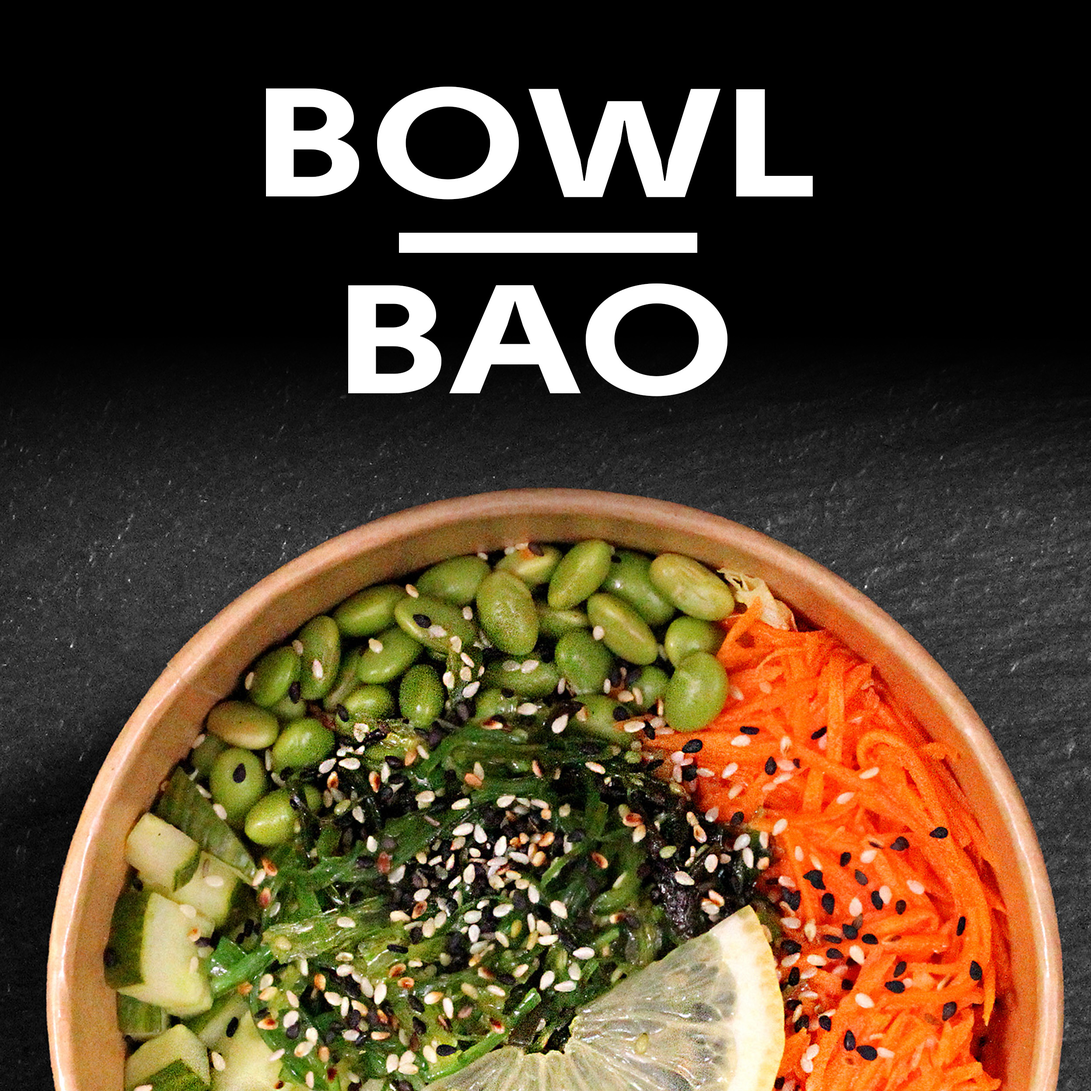
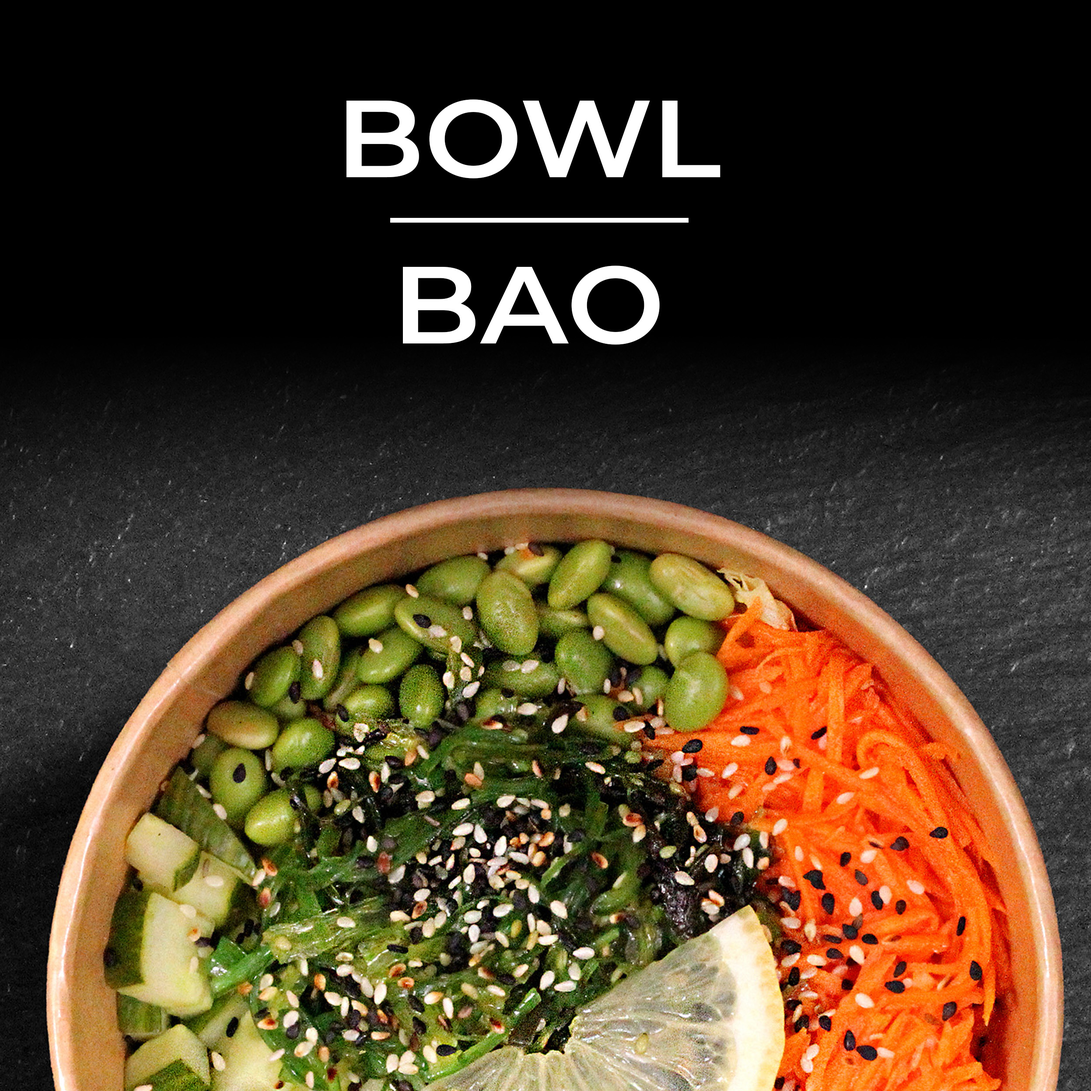
Changed Menu selector photos
+New menu selector photos
-Unused photos removed
+Font size changed for create card description
+Text style changed on create card separator

Changed region(s): [[0.2161, 0.0617, 0.741, 0.3705]]

diff --git a/sushibu-website/src/components/MenuWokSnack.js b/sushibu-website/src/components/MenuWokSnack.js
@@ -4,10 +4,10 @@ import CreateCard from "./CreateCard";
 import CreateCardSeparator from "./CreateCardSeparator";
 
 import iconVegan from "../content/Icons/Icon_Vegan.png";
-import iconHot from "../content/Icons/Icon_Hot.png";
-import iconHotVegan from "../content/Icons/Icon_HotVegan.png";
-import iconHotDefault from "../content/Icons/Icon_HotDefault.png";
-import iconVeganDefault from "../content/Icons/Icon_VeganDefault.png";
+// import iconHot from "../content/Icons/Icon_Hot.png";
+// import iconHotVegan from "../content/Icons/Icon_HotVegan.png";
+// import iconHotDefault from "../content/Icons/Icon_HotDefault.png";
+// import iconVeganDefault from "../content/Icons/Icon_VeganDefault.png";
 
 import Wok31 from "../content/WokSnack/31.ToriWok.JPG";
 import Wok32 from "../content/WokSnack/32.EbiWok.JPG";
@@ -27,7 +27,15 @@ const MenuBao = () => {
         <Grid item xs={12} md={12} l={12}>
           <CreateCardSeparator 
             name="WOK" 
-            desc={"Visi Wok pateikiami su VIENODAIS PRIEDAIS: morka, česnakas, cukinija, edamame pupelės, paprika, pievagrybiai, imbieras, citrina, svogūnų traškučiai, sezamas, sojų padažas \n Pasirinkite su Ryžiais ar Makaronais \n Pasirinkite padažą: Sweet čili, Aštrus,Teriyaki"}>
+            desc={
+              <>
+                Visi Wok pateikiami su <b>VIENODAIS PRIEDAIS</b>: morka, česnakas, cukinija, edamame pupelės, paprika, 
+                pievagrybiai, imbieras, citrina, svogūnų traškučiai, sezamas, sojų padažas.
+                <br></br><b>Pasirinkite</b>: su Ryžiais arba Makaronais. 
+                <br></br><b>Pasirinkite</b>: Sweet čili, Aštrus arba Teriyaki.
+              </>
+            }
+          >
           </CreateCardSeparator>
         </Grid>
         <Grid item xs={12} md={6} l={4}>
@@ -58,7 +66,7 @@ const MenuBao = () => {
         <Grid item xs={12} md={12} l={12}>
           <CreateCardSeparator 
             name="UŽKANDŽIAI" 
-            desc="Pasirinkite padažą: Sweet čili, Aštrus, Teriyaki, Krapų, Sojos, Majonezo"
+            desc={<><b>Pasirinkite padažą</b>: Sweet čili, Aštrus, Teriyaki, Krapų, Sojos arba Majonezo</>}
             titleVariant="h4"
           ></CreateCardSeparator>
         </Grid>

diff --git a/sushibu-website/src/components/MenuBowlBao.js b/sushibu-website/src/components/MenuBowlBao.js
@@ -4,10 +4,10 @@ import CreateCard from "./CreateCard";
 import CreateCardSeparator from "./CreateCardSeparator";
 
 import iconVegan from "../content/Icons/Icon_Vegan.png";
-import iconHot from "../content/Icons/Icon_Hot.png";
-import iconHotVegan from "../content/Icons/Icon_HotVegan.png";
-import iconHotDefault from "../content/Icons/Icon_HotDefault.png";
-import iconVeganDefault from "../content/Icons/Icon_VeganDefault.png";
+// import iconHot from "../content/Icons/Icon_Hot.png";
+// import iconHotVegan from "../content/Icons/Icon_HotVegan.png";
+// import iconHotDefault from "../content/Icons/Icon_HotDefault.png";
+// import iconVeganDefault from "../content/Icons/Icon_VeganDefault.png";
 
 import bowl_1 from "../content/BowlBao_Bowl1.jpg"
 
@@ -28,7 +28,8 @@ const MenuBowl = () => {
         <Grid item xs={12} md={12} l={12}>
           <CreateCardSeparator
             name="BOWL"
-            desc={"Visi Bowl dubenėliai ruošiami su VIENODAIS PRIEDAIS: ryžiai, agurkas, edamame pupelės, sweet čili morkos, wakame, marinuotas imbieras, citrina, nori lapai, iceberg salota \n Pasirinktinai padažas: Sweet čili, Teriyaki, Krapų, Čili, Karai"}
+            desc={<>Visi Bowl dubenėliai ruošiami su <b>VIENODAIS PRIEDAIS</b>: ryžiai, agurkas, edamame pupelės, sweet čili morkos, wakame, marinuotas imbieras, citrina, nori lapai, iceberg salota
+            <br></br><b>Pasirinktinai padažas</b>: Sweet čili, Teriyaki, Krapų, Čili arba Karai</>}
           ></CreateCardSeparator>
         </Grid>
         <Grid item xs={12} md={6} l={4}>

diff --git a/sushibu-website/src/components/MenuSelector.js b/sushibu-website/src/components/MenuSelector.js
@@ -31,28 +31,6 @@ function CreateCard(props) {
       >
         <CardContent style={{ padding: 0, margin: 0, position: "relative" }}>
           <Grid container spacing={0}>
-            {/* <Grid item xs={12} md={9}>
-              <Grid container justifyContent="space-between">
-                <Grid item>
-                  <Typography variant="h5" align="left">
-                    {props.name}
-                  </Typography>
-                </Grid>
-                <Grid item>
-                  <Typography variant="h5" align="right">
-                    {props.price}
-                  </Typography>
-                </Grid>
-              </Grid>
-              <Typography variant="body2">{props.desc}</Typography>
-            </Grid> */}
-            {/* <Grid item xs={12} md={12}>
-              <img
-                src={props.img}
-                alt={"Not loading"}
-                style={{ width: "100%", height: "100%", objectFit: "cover" }}
-              />
-            </Grid> */}
             <Grid item xs={12} md={12} style={{ padding: 0, margin: 0, position: "relative" }}>
               <img
                 src={props.img}

diff --git a/sushibu-website/src/components/MenuSet.js b/sushibu-website/src/components/MenuSet.js
@@ -4,6 +4,10 @@ import CreateCard from "./CreateCard";
 import CreateCardSeparator from "./CreateCardSeparator";
 
 import iconVegan from "../content/Icons/Icon_Vegan.png";
+// import iconHot from "../content/Icons/Icon_Hot.png";
+// import iconHotVegan from "../content/Icons/Icon_HotVegan.png";
+// import iconHotDefault from "../content/Icons/Icon_HotDefault.png";
+// import iconVeganDefault from "../content/Icons/Icon_VeganDefault.png";
 
 import sushiSet_1 from "../content/SushiSet/SushiSet_Bu1.jpg";
 import sushiSet_2 from "../content/SushiSet/SushiSet_Bu2.jpg";

diff --git a/sushibu-website/src/components/CreateCardSeparator.js b/sushibu-website/src/components/CreateCardSeparator.js
@@ -22,7 +22,7 @@ function CreateCardSeparator(props) {
           </Grid>
 
           <Grid item xs={12} md={10} container justifyContent="left" alignItems="center">
-            <Typography variant="body2" sx={{paddingLeft: "20px", color: "white", fontSize: "16px"}} style={{ whiteSpace: "pre-line" }}>
+            <Typography variant="body2" sx={{ whiteSpace: "pre-line", paddingLeft: "20px", color: "white", fontSize: "16px"}} style={{ whiteSpace: "pre-line" }}>
               {props.desc}
             </Typography>
           </Grid>

diff --git a/sushibu-website/src/components/MenuSushi.js b/sushibu-website/src/components/MenuSushi.js
@@ -3,7 +3,7 @@ import { Box, Grid} from "@mui/material";
 import CreateCard from "./CreateCard";
 import CreateCardSeparator from "./CreateCardSeparator";
 
-import iconVegan from "../content/Icons/Icon_Vegan.png";
+// import iconVegan from "../content/Icons/Icon_Vegan.png";
 import iconHot from "../content/Icons/Icon_Hot.png";
 import iconHotVegan from "../content/Icons/Icon_HotVegan.png";
 import iconHotDefault from "../content/Icons/Icon_HotDefault.png";
